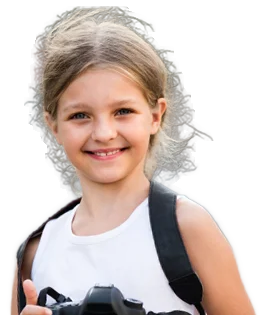
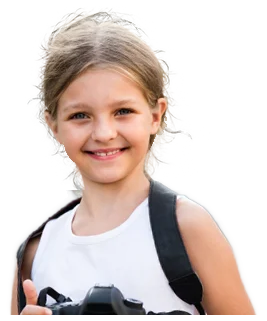
Clean Sketch bride photo hair halo and refresh cached demo

Changed region(s): [[0.0899, 0.0, 0.809, 0.5919]]

diff --git a/frontend/src/lib/sketch-demo-photos.ts b/frontend/src/lib/sketch-demo-photos.ts
@@ -5,7 +5,7 @@ export const SKETCH_DEMO_PHOTOS = {
   },
   bridePhoto: {
     originalUrl: '/invite/sketch/assets/photo-bride.webp',
-    resultUrl: '/invite/sketch/assets/photo-bride-cutout.png',
+    resultUrl: '/invite/sketch/assets/photo-bride-cutout.png?v=hair2',
   },
 } as const;
 
@@ -13,7 +13,7 @@ export const SKETCH_DEMO_DEFAULTS = {
   groomPhoto: SKETCH_DEMO_PHOTOS.groomPhoto.resultUrl,
   bridePhoto: SKETCH_DEMO_PHOTOS.bridePhoto.resultUrl,
   photoCutouts: SKETCH_DEMO_PHOTOS,
-  __sketchDemoPhotos: 1,
+  __sketchDemoPhotos: 2,
 };
 
 const record = (value: unknown): Record<string, unknown> =>
@@ -21,11 +21,20 @@ const record = (value: unknown): Record<string, unknown> =>
 
 /** Update untouched demo photos once; preserve uploads, crops and later restores. */
 export function withSketchDemoPhotos(customData: Record<string, unknown>): Record<string, unknown> {
-  if (customData.__sketchDemoPhotos === 1) return customData;
-  const next: Record<string, unknown> = { ...customData, __sketchDemoPhotos: 1 };
+  if (customData.__sketchDemoPhotos === 2) return customData;
+  const next: Record<string, unknown> = { ...customData, __sketchDemoPhotos: 2 };
   const cutouts = { ...record(customData.photoCutouts) };
   let changed = false;
   for (const [id, demo] of Object.entries(SKETCH_DEMO_PHOTOS)) {
+    const previousCutout = demo.resultUrl.split('?')[0];
+    if (previousCutout !== demo.resultUrl && customData[id] === previousCutout) {
+      next[id] = demo.resultUrl;
+      cutouts[id] = { ...record(cutouts[id]), ...demo };
+      changed = true;
+      continue;
+    }
+    // A restore after the first demo update must remain restored.
+    if (customData.__sketchDemoPhotos === 1) continue;
     const legacyUrl = demo.originalUrl.replace('photo-', 'polaroid-').replace('.webp', '.png');
     if (customData[id] !== demo.originalUrl && customData[id] !== legacyUrl) continue;
     if (record(customData.photoFrames)[id] || cutouts[id]) continue;

diff --git a/frontend/public/invite/sketch/index.html b/frontend/public/invite/sketch/index.html
@@ -42,7 +42,7 @@
           <span class="pol-cap" data-edit="groomCaption">Жених</span>
         </div>
         <div class="pol pol-r" data-cutout="1">
-          <img decoding="async" class="photo" src="assets/photo-bride-cutout.png" alt="Невеста" data-edit="bridePhoto">
+          <img decoding="async" class="photo" src="assets/photo-bride-cutout.png?v=hair2" alt="Невеста" data-edit="bridePhoto">
           <img decoding="async" class="frame" src="assets/frame-stamp-yellow.svg" alt="">
           <span class="pol-cap" data-edit="brideCaption">Невеста</span>
         </div>
